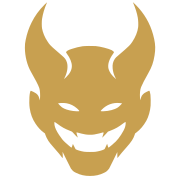
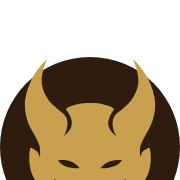
feat(cartas): 1 carta por nível com raridade ponderada (monstro 3x, captura 2x, aliança 1x)
Sorteio ponderado por tipo nos desbloqueios (sortearIdsPonderado), script de correção de dados em produção (scripts/corrigir-cartas.js), deck exposto em window.esquizomonDeck, favicon circular marrom escuro + demônio dourado (SVG + PNGs regenerados).

diff --git a/scripts/corrigir-cartas.js b/scripts/corrigir-cartas.js
@@ -1,0 +1,41 @@
+/**
+ * Corrige os dados de produção após a mudança de raridade das cartas
+ * (2026-08-12: 2 → 1 carta por nível; monstro 3×, captura 2×, aliança 1×).
+ *
+ * COMO USAR: abra o app (produção), F12 → Console, cole o conteúdo e Enter.
+ * O script recalcula o teto do deck para o nível atual (7 iniciais + 1 por
+ * nível acima do 1º) e remove o EXCEDENTE, preservando primeiro as cartas
+ * mais raras (aliança > captura > monstro).
+ *
+ * Atenção: recarregue a página depois para o app reler o storage.
+ * Faça backup antes: Config → Exportar (ou copie o JSON do console).
+ */
+(() => {
+  const CHAVE = 'esquizomon-rpg:v1'
+  const bruto = localStorage.getItem(CHAVE)
+  if (!bruto) {
+    console.error('[corrigir-cartas] Nada salvo na chave', CHAVE)
+    return
+  }
+  const dados = JSON.parse(bruto)
+  const p = dados.personagem ?? {}
+  const cartas = Array.isArray(p.cartas) ? [...p.cartas] : []
+  const nivel = typeof p.nivel === 'number' ? p.nivel : 1
+  const teto = 7 + Math.max(0, nivel - 1)
+  if (cartas.length <= teto) {
+    console.log(`[corrigir-cartas] Nada a corrigir: nível ${nivel} justifica até ${teto} cartas e você tem ${cartas.length}.`)
+    return
+  }
+  const deck = window.esquizomonDeck ?? []
+  const tipoDe = (id) => (deck.find((c) => c.id === id)?.type ?? 'monstro')
+  const pesoDe = (id) => (tipoDe(id) === 'alianca' ? 3 : tipoDe(id) === 'captura' ? 2 : 1)
+  const excedente = cartas.length - teto
+  const aRemover = [...cartas]
+    .sort((a, b) => pesoDe(a) - pesoDe(b)) // menos raras primeiro
+    .slice(0, excedente)
+  p.cartas = cartas.filter((id) => !aRemover.includes(id))
+  localStorage.setItem(CHAVE, JSON.stringify(dados))
+  console.log(`[corrigir-cartas] Removidas ${excedente} carta(s) do excedente (nível ${nivel} → teto ${teto}).`)
+  console.log('Removidas:', aRemover.map((id) => `${tipoDe(id)}:${id}`).join(', '))
+  console.log('Sobraram:', p.cartas.length, '— recarregue a página (F5).')
+})()

diff --git a/src/core/baralho.ts b/src/core/baralho.ts
@@ -3,6 +3,12 @@
 
 import deck from '../data/deck.json'
 
+// Gancho de diagnóstico: expõe o deck para scripts de console (correção de
+// dados em produção — 2026-08-12). Inofensivo.
+if (typeof window !== 'undefined') {
+  ;(window as unknown as { esquizomonDeck?: Carta[] }).esquizomonDeck = deck as Carta[]
+}
+
 export type TipoCarta = 'monstro' | 'captura' | 'alianca'
 
 export interface Carta {
@@ -27,6 +33,36 @@ export function sortearIds(cartas: Carta[], n: number, excluir: string[] = []): 
   const disponiveis = cartas.map((c) => c.id).filter((id) => !excluir.includes(id))
   const embaralhado = [...disponiveis].sort(() => Math.random() - 0.5)
   return embaralhado.slice(0, Math.min(n, embaralhado.length))
+}
+
+/** Peso de raridade por tipo (2026-08-12): monstro é 3× mais comum que
+ *  aliança; captura 2×. */
+export function pesoDeRaridade(c: Carta): number {
+  return c.type === 'monstro' ? 3 : c.type === 'captura' ? 2 : 1
+}
+
+/** Sorteia N ids com pesos de raridade, sem repetir as já escolhidas —
+ *  usado nos desbloqueios por nível (2026-08-12). */
+export function sortearIdsPonderado(cartas: Carta[], n: number, excluir: string[] = []): string[] {
+  const disponiveis = cartas.filter((c) => !excluir.includes(c.id))
+  const escolhidos: string[] = []
+  const sorteiaUm = (): Carta | undefined => {
+    const total = disponiveis.reduce((s, c) => s + pesoDeRaridade(c), 0)
+    if (total <= 0) return undefined
+    let r = Math.random() * total
+    for (const c of disponiveis) {
+      r -= pesoDeRaridade(c)
+      if (r < 0) return c
+    }
+    return disponiveis[disponiveis.length - 1]
+  }
+  while (escolhidos.length < Math.min(n, disponiveis.length)) {
+    const c = sorteiaUm()
+    if (!c) break
+    escolhidos.push(c.id)
+    disponiveis.splice(disponiveis.indexOf(c), 1)
+  }
+  return escolhidos
 }
 
 /** Sorteia as cartas iniciais: exatamente 5 monstros + 1 captura + 1 aliança. */

diff --git a/src/stores/personagem.ts b/src/stores/personagem.ts
@@ -23,7 +23,7 @@ export function definirNomeMonstruoso(nome: string): void {
 import type { Personagem } from '../core/tipos'
 import { cartasPorNivel, custoInvocacao, hpMaxDe, manaMaxDe, xpProximoDe } from '../core/jogo'
 import type { Carta } from '../core/baralho'
-import { sortearIds, sortearIniciais } from '../core/baralho'
+import { sortearIniciais, sortearIdsPonderado } from '../core/baralho'
 import { appStore, registrarLog } from './base'
 import type { Resultado } from './base'
 import { tocarSom } from '../ui/sons'
@@ -87,7 +87,7 @@ function desbloquearCartas(n: number): string[] {
     desbloqueioPendente += n
     return []
   }
-  const novos = sortearIds(deckCarregado, n, p.cartas)
+  const novos = sortearIdsPonderado(deckCarregado, n, p.cartas)
   if (novos.length === 0) return []
   appStore.set({
     ...dados,

diff --git a/src/core/jogo.ts b/src/core/jogo.ts
@@ -67,12 +67,12 @@ export function manaMaxDe(nivel: number): number {
 /** Cartas desbloqueadas no início: ~10% de 65 = 7. */
 export const CARTAS_INICIAIS = 7
 
-/** Cartas desbloqueadas a cada nível acima do 1º (2 por nível → completo no nível 30). */
+/** Cartas desbloqueadas a cada nível acima do 1º (1 por nível → completo no nível 59). */
 export function cartasPorNivel(): number {
-  return 2
+  return 1
 }
 
-/** Nível em que o baralho fica completo (65 cartas, 7 iniciais + 2/nível). */
+/** Nível em que o baralho fica completo (65 cartas, 7 iniciais + 1/nível). */
 export function nivelBaralhoCompleto(): number {
   return 1 + Math.ceil((65 - CARTAS_INICIAIS) / cartasPorNivel())
 }

diff --git a/src/ui/views/ficha.ts b/src/ui/views/ficha.ts
@@ -126,7 +126,7 @@ export function montarFicha(raiz: HTMLElement, dados: AppData): void {
 
     <div class="config-secao">
       <h3>Baralho</h3>
-      <p>Coleção desbloqueada conforme você sobe de nível — 2 cartas por nível, a partir de 7 iniciais (~10%).</p>
+      <p>Coleção desbloqueada conforme você sobe de nível — 1 carta por nível (a partir de 7 iniciais): monstros são 3× mais comuns que alianças, capturas 2×.</p>
       <div class="ficha-barra" title="Cartas desbloqueadas do baralho">
         <span class="ficha-barra-rotulo">Baralho</span>
         <div class="ficha-barra-trilho"><div class="ficha-barra-preenchimento ficha-barra--xp" style="width:${pctColecao}%"></div></div>
